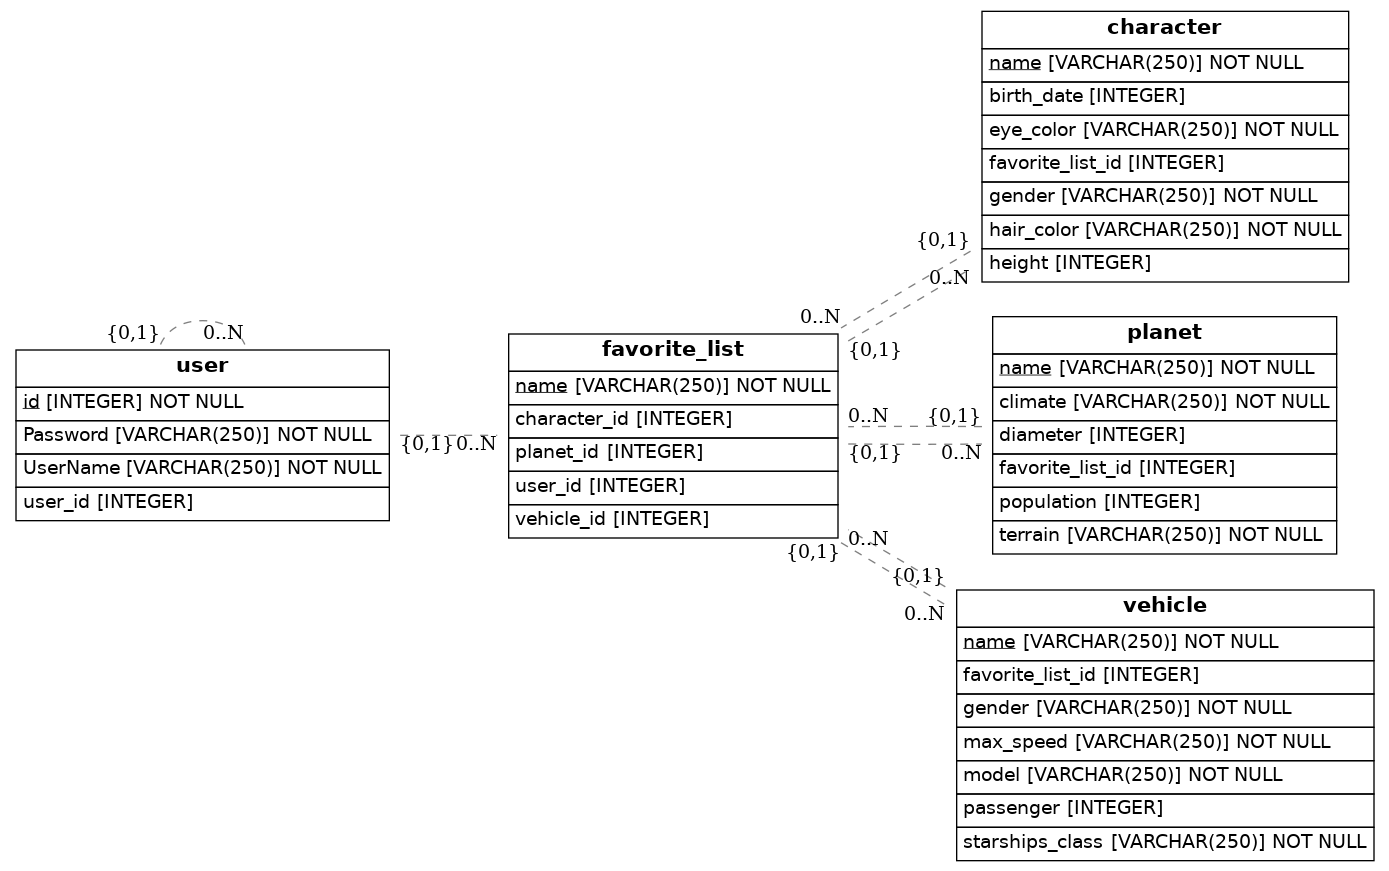
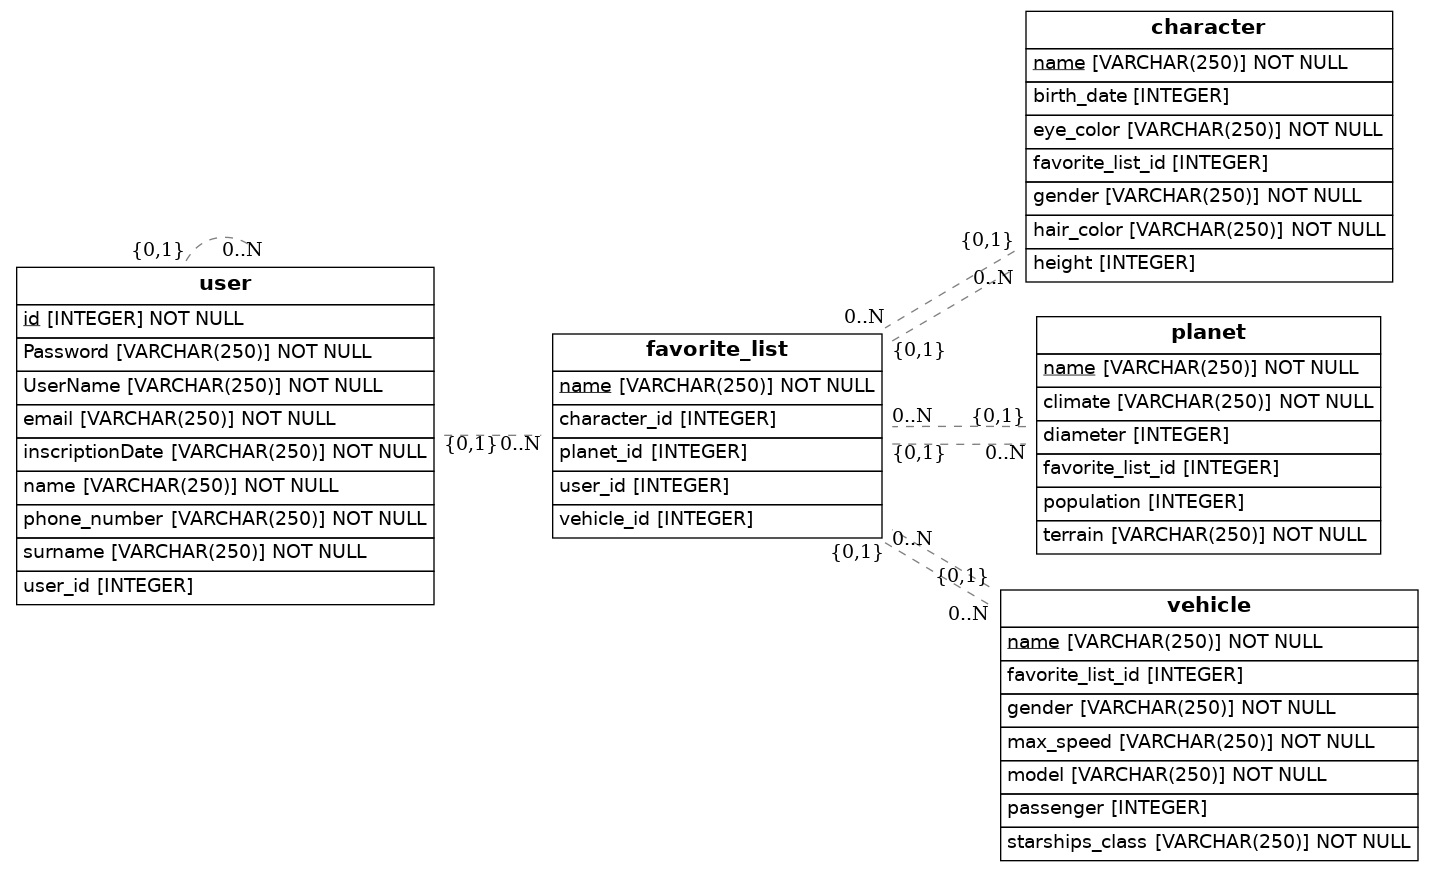
data2

diff --git a/src/models.py b/src/models.py
@@ -14,6 +14,11 @@ class User(Base):
     id = Column(Integer, primary_key=True)
     UserName = Column(String(250), nullable=False)
     Password = Column(String(250), nullable=False)
+    name = Column(String(250), nullable=False)
+    surname = Column(String(250), nullable=False)
+    phone_number = Column(String(250), nullable=False)
+    email = Column(String(250), nullable=False)
+    inscriptionDate = Column(String(250), nullable=False)
     user_id = Column(Integer, ForeignKey('user.id'))
 
 class Character(Base):
